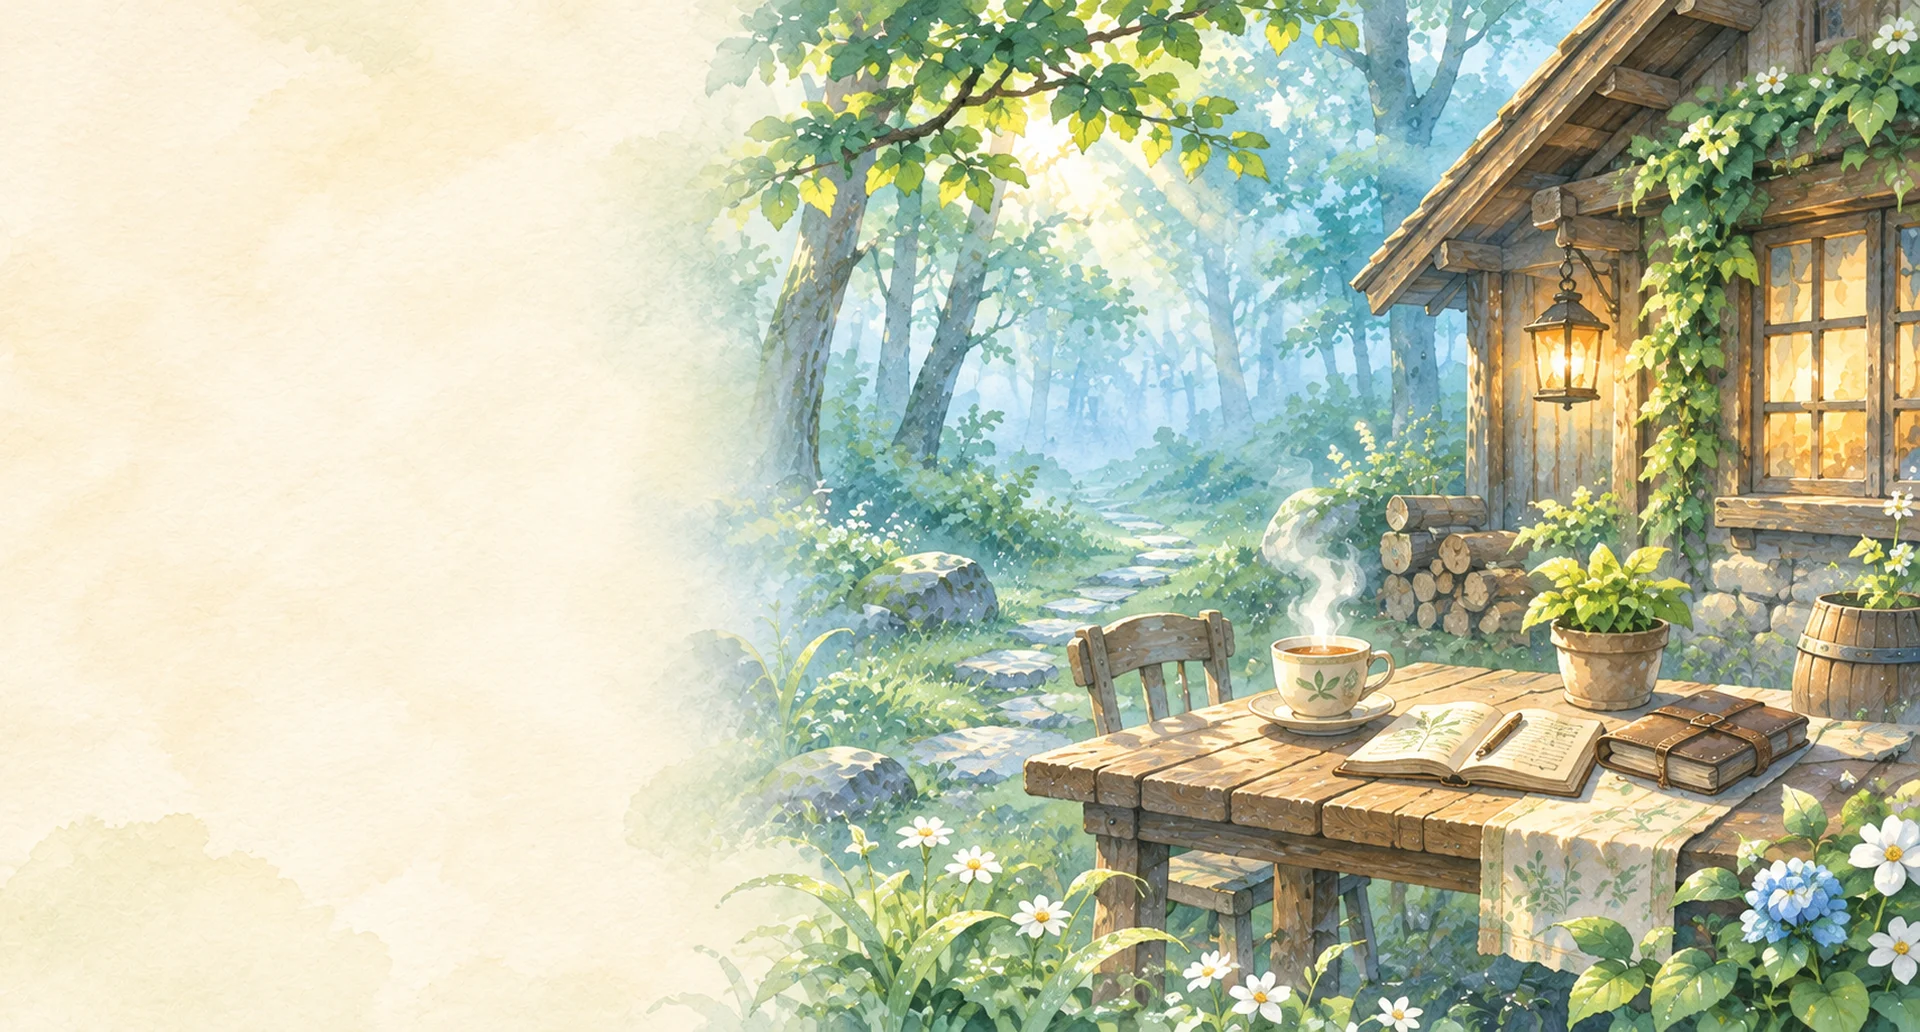
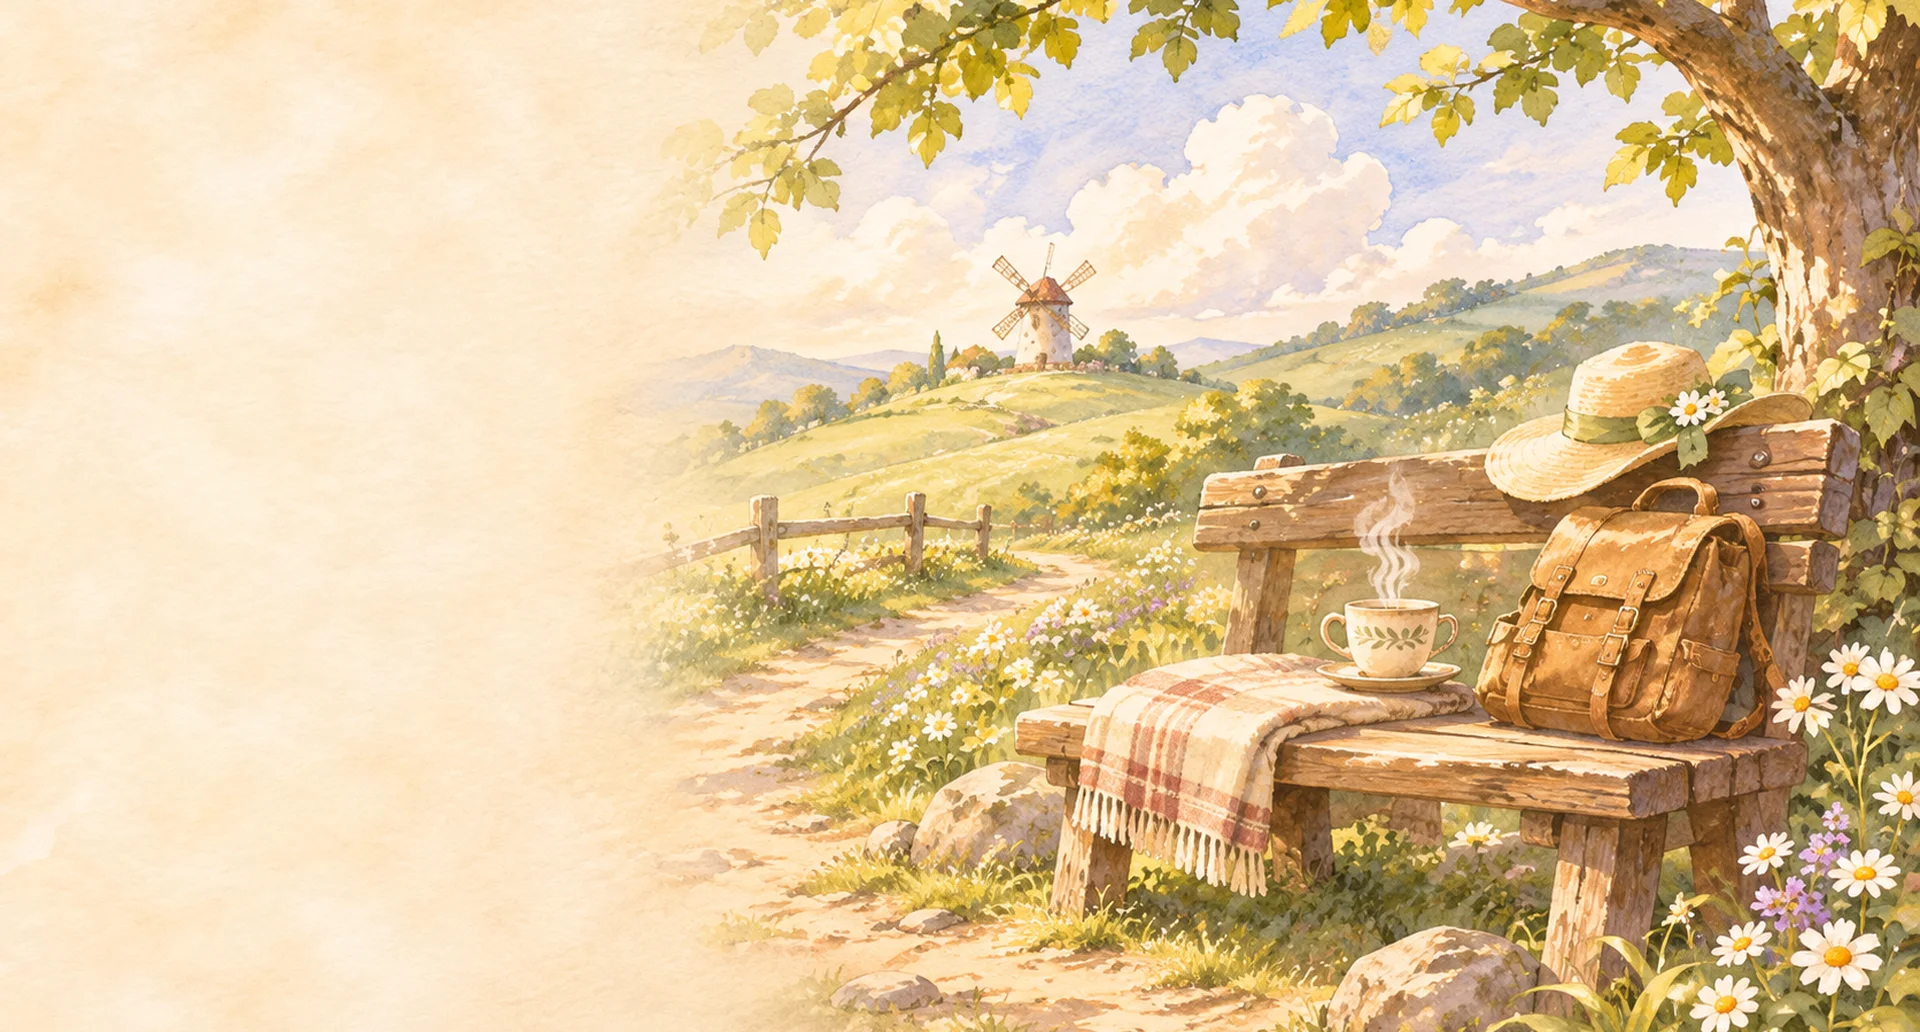
홈 배너 1을 기존 배너와 같은 따뜻한 수채화 톤(들판 벤치)으로 재제작
Claude-Session: https://claude.ai/code/session_01SwHSdbEEaZJxcHmirHV4co

diff --git a/js/views.js b/js/views.js
@@ -53,7 +53,7 @@ OnOff.Views = (function () {
   const BANNERS = [
     { label: "하루 몇 분이어도", sub: "내 속도로 즐기는 여정", kicker: "내 속도로", title: "<span>하루 몇 분이어도</span><span><em>괜찮아요</em></span>",
       text: "쉬어 가도 괜찮은 여정입니다. 게임마다 진행 기록이 따로 저장되어, 언제든 이어서 할 수 있어요.", img: "img/banner-1.webp", pos: "70% 50%",
-      alt: "이른 아침 안개 낀 숲속 오두막 앞 나무 테이블 위의 찻잔과 펼친 노트", cta: '<button class="btn" type="button" data-action="start">모험 시작하기</button>' },
+      alt: "따뜻한 오후 햇살 아래 들판 길가 나무 벤치 위의 여행 가방, 밀짚모자와 김 오르는 찻잔", cta: '<button class="btn" type="button" data-action="start">모험 시작하기</button>' },
     { label: "일상 밖의 모험", sub: "일상 속의 성장", kicker: "심리학 전공자들이 만든 성장형 게임", title: "<span>일상 밖의 모험,</span><span><em>일상 속</em>의 성장</span>",
       text: "이야기 속 작은 선택과 경험이 쌓여, 일상의 변화로 이어지는 여정을 함께합니다.", img: "img/banner-2.webp", pos: "70% 50%",
       alt: "창가 책상 위 낡은 지도와 나침반, 창밖으로 보이는 항구 도시", cta: '<button class="btn" type="button" data-action="scroll" data-target="lib">게임 둘러보기</button>' },
